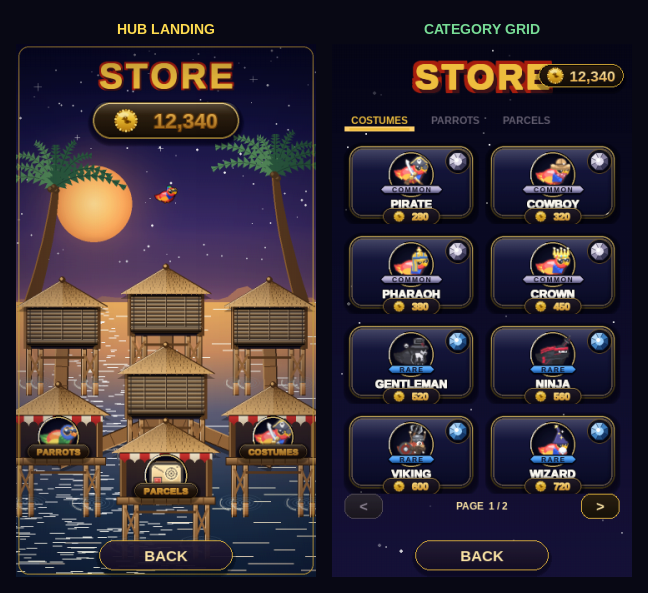
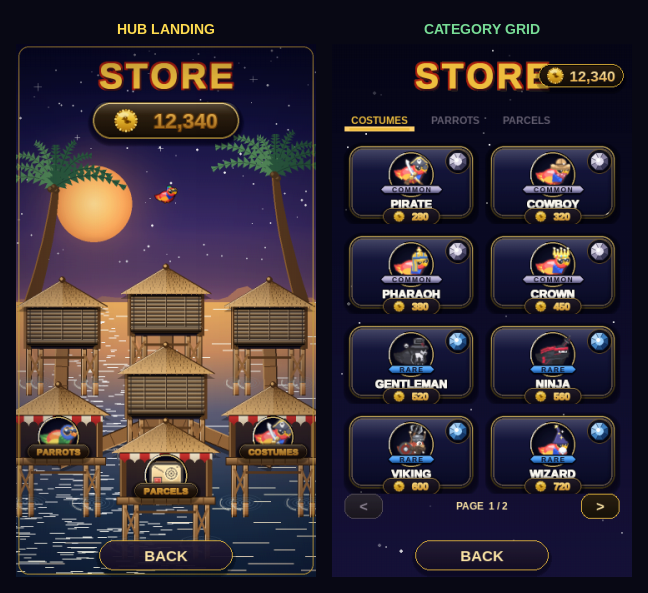
fix: category-grid STORE wordmark via 2x buffer to match hub outline weight
title_wordmark uses m(2)=4px for its outline spread. On the hub's 2x surface
that downscales to 2px visual; called on the 1x surface it stayed 4px, making
the red outline appear heavier. Mirror the hub pipeline: render into a 720x144
buffer (size=42, tracking=8) then smoothscale to 360x72 so all parameters
— font, outline spread, shadow offset — match the hub exactly.

Changed region(s): [[0.6173, 0.0911, 0.8642, 0.1821]]

diff --git a/game/store.py b/game/store.py
@@ -594,7 +594,13 @@ class StoreScene:
         _draw_overlay_stars(surf, self._stars, self.t + 1.4)
 
     def _draw_title(self, surf) -> None:
-        title_wordmark(surf, "STORE", (W // 2, 38), 21, tracking=4)
+        _SS = 2
+        strip_h = 72
+        bw, bh = W * _SS, strip_h * _SS
+        big = pygame.Surface((bw, bh), pygame.SRCALPHA)
+        title_wordmark(big, "STORE", (bw // 2, bh // 2), 42, tracking=8)
+        surf.blit(pygame.transform.smoothscale(big, (W, strip_h)),
+                  (0, 38 - strip_h // 2))
 
     def _draw_balance(self, surf, y) -> None:
         """Gold capsule + gradient-gold digits in the top-right corner.
